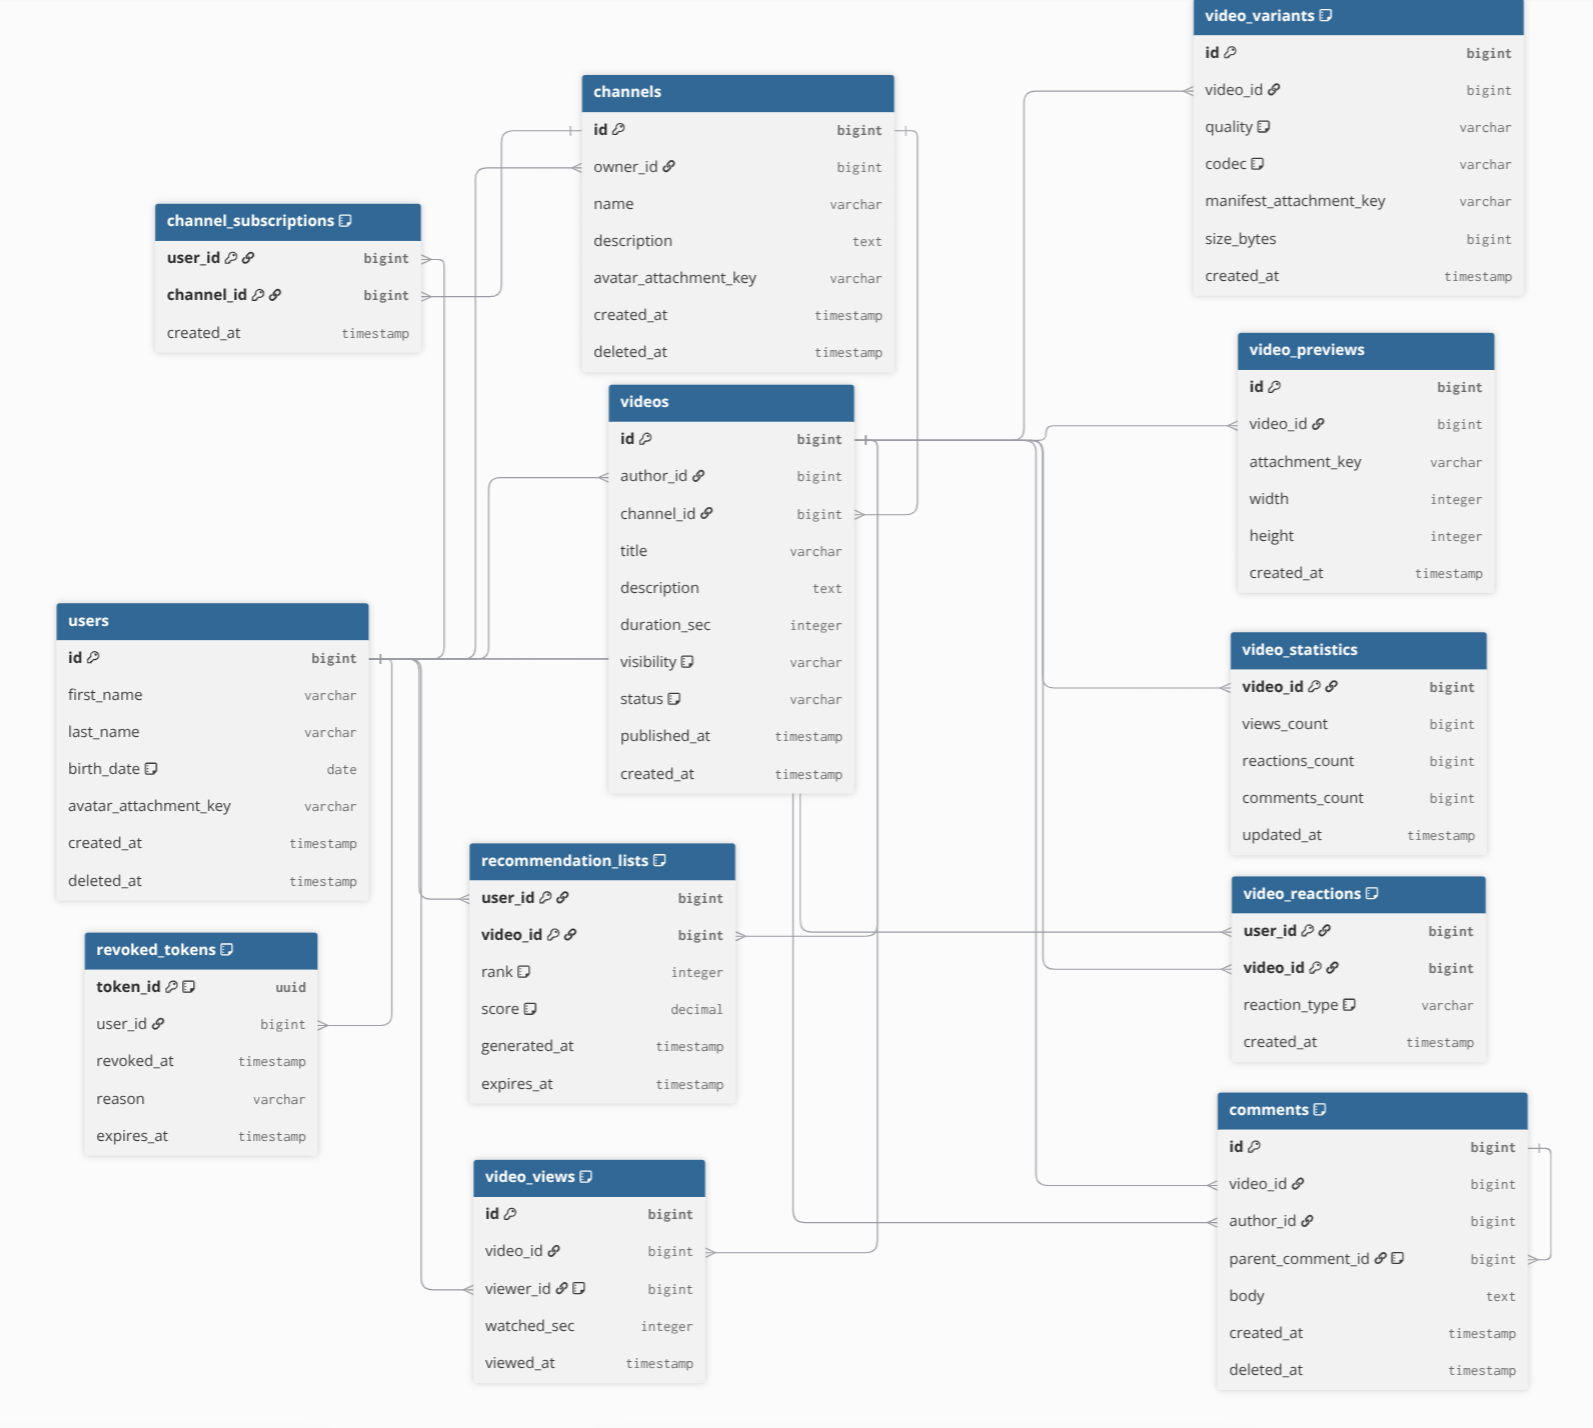
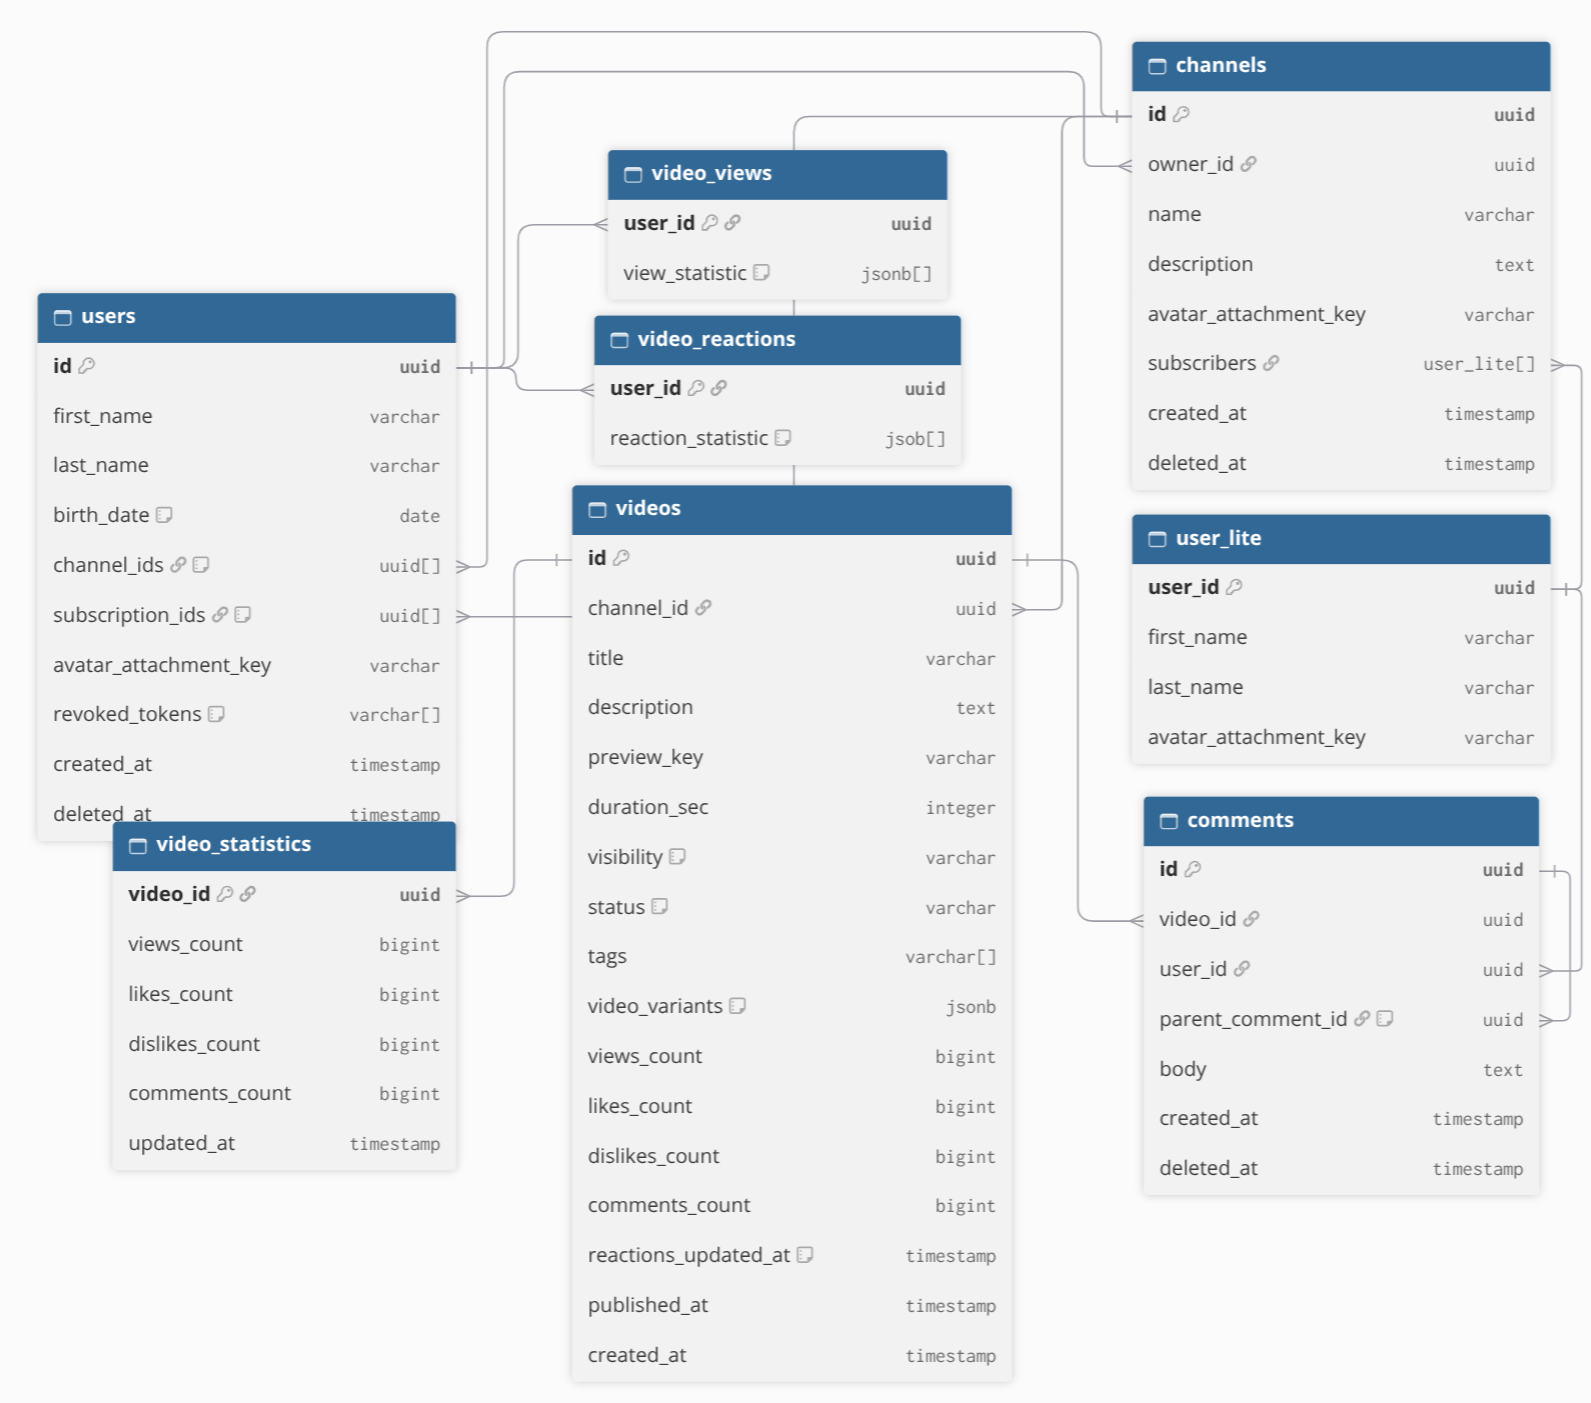
дз 5 правки

diff --git a/README.md b/README.md
@@ -215,45 +215,28 @@ Direct Routing (L3/L4, внутри ЦОД) → L7 (HTTP/gRPC)
 
 # 5. Логическая схема данных
 
-Схемы бд: [основная БД](database_schema.dbml) и [S3-хранилище](s3_schema.dbml).
+[Схема бд](database_schema.dbml)
 
+### Таблицы БД
 
-
-
-
-### Таблицы основной БД
-
-| Таблица                 | Зачем нужна                                                                                                                                  |
-|:------------------------|:---------------------------------------------------------------------------------------------------------------------------------------------|
-| `users`                 | Профиль пользователя. Пользователь может владеть несколькими каналами                                                                        |
-| `revoked_tokens`        | Чёрный список отозванных токенов                                                                                                             |
-| `channels`              | Канал автора                                                                                                                                 |
-| `videos`                | Основнаые данные о видео                                                                                                                     |
-| `video_variants`        | Варианты одного видео после транскодирования: качество, кодек и ключ HLS-манифеста (HTTP Live Streaming). Плеер выбирает подходящий вариант. |
-| `video_previews`        | Обложка видео                                                                                                                                |
-| `video_reactions`       | Реакция пользователя на видео. Нельзя поставить одну реакцию дважды                                                                          |
-| `comments`              | Текст комментария                                                                                                                            |
-| `channel_subscriptions` | Подписка пользователя на канал                                                                                                               |
-| `video_views`           | Данные о просмотре видео                                                                                                                     |
-| `video_statistics`      | Статистика по видео                                                                                                                          |
-| `recommendation_lists`  | Готовая лента пользователя. `rank` — место в ленте, `score` — оценка релевантности видео.                                                    |
+| Таблица                    | Зачем нужна                                                                                                                                             |
+|:---------------------------|:--------------------------------------------------------------------------------------------------------------------------------------------------------|
+| `users`                    | Профиль пользователя, включая списки его каналов, подписок и отозванных токенов.                                                                        |
+| `user_lite`                | Облегчённое представление пользователя, например для спискова подписчиков.                                                                              |
+| `channels`                 | Данные канала и список его подписчиков.                                                                                                                 |
+| `videos`                   | Карточка видео: теги, варианты качества со ссылками на объектное хранилище (video_variants) и быстро доступные счётчики реакций (не всегда актуальные). |
+| `comments`                 | Комментарии к видео; `parent_comment_id` пуст для корневого комментария.                                                                                |
+| `video_views`              | Статистика просмотров пользователя по видео: время просмотра, позиция остановки и другие метаданные.                                                    |
+| `video_reactions`          | Реакции пользователя по видео: лайк, дизлайк и т. п.                                                                                                    |
+| `video_statistics`         | Актуальные счётчики видео.                                                                                                                              |
+| `source_video_attachments` | Исходный видеофайл в конкретном качестве;                                                                                                               |
+| `streaming_manifests`      | HLS-манифест;                                                                                                                                           |
+| `multipart_uploads`        | Незавершённая загрузка со статусом `active`, `completed` или `aborted`.                                                                                 |
+| `preview_attachments`      | Изображение превью видео;                                                                                                                               |
+| `avatar_attachments`       | Аватар пользователя;                                                                                                                                    |
 
 ![db_schema.png](db_schema.png)
-
-### S3-хранилище
-
-| Таблица                    | Зачем нужна                                                                                                                                                                               |
-|:---------------------------|:------------------------------------------------------------------------------------------------------------------------------------------------------------------------------------------|
-| `source_video_attachments` | Исходный файл автора; используется для транскодирования и повторной обработки.                                                                                                            |
-| `streaming_manifests`      | HLS-плейлист с доступными качествами и сегментами для плеера.                                                                                                                             |
-| `streaming_segments`       | Короткие фрагменты видео. Плеер загружает их последовательно, может сменить качество без остановки, а CDN кеширует популярные сегменты.                                                   |
-| `preview_attachments`      | Изображения - превью видео                                                                                                                                                                |
-| `avatar_attachments`       | Изображения - аватарки                                                                                                                                                                    |
-| `multipart_uploads`        | Состояние незавершённой загрузки большого файла. `target_attachment_key` — ключ итогового файла, по которому S3 соберёт все части после завершения и положит в `source_video_attachments` |
-| `multipart_parts`          | Номера, размеры и контрольные суммы частей; чтобы продолжить загрузку после обрыва и проверить целостность файла.                                                                         |
-
 ![s3_schema.png](s3_schema.png)
-
 
 # Список источников:
 
